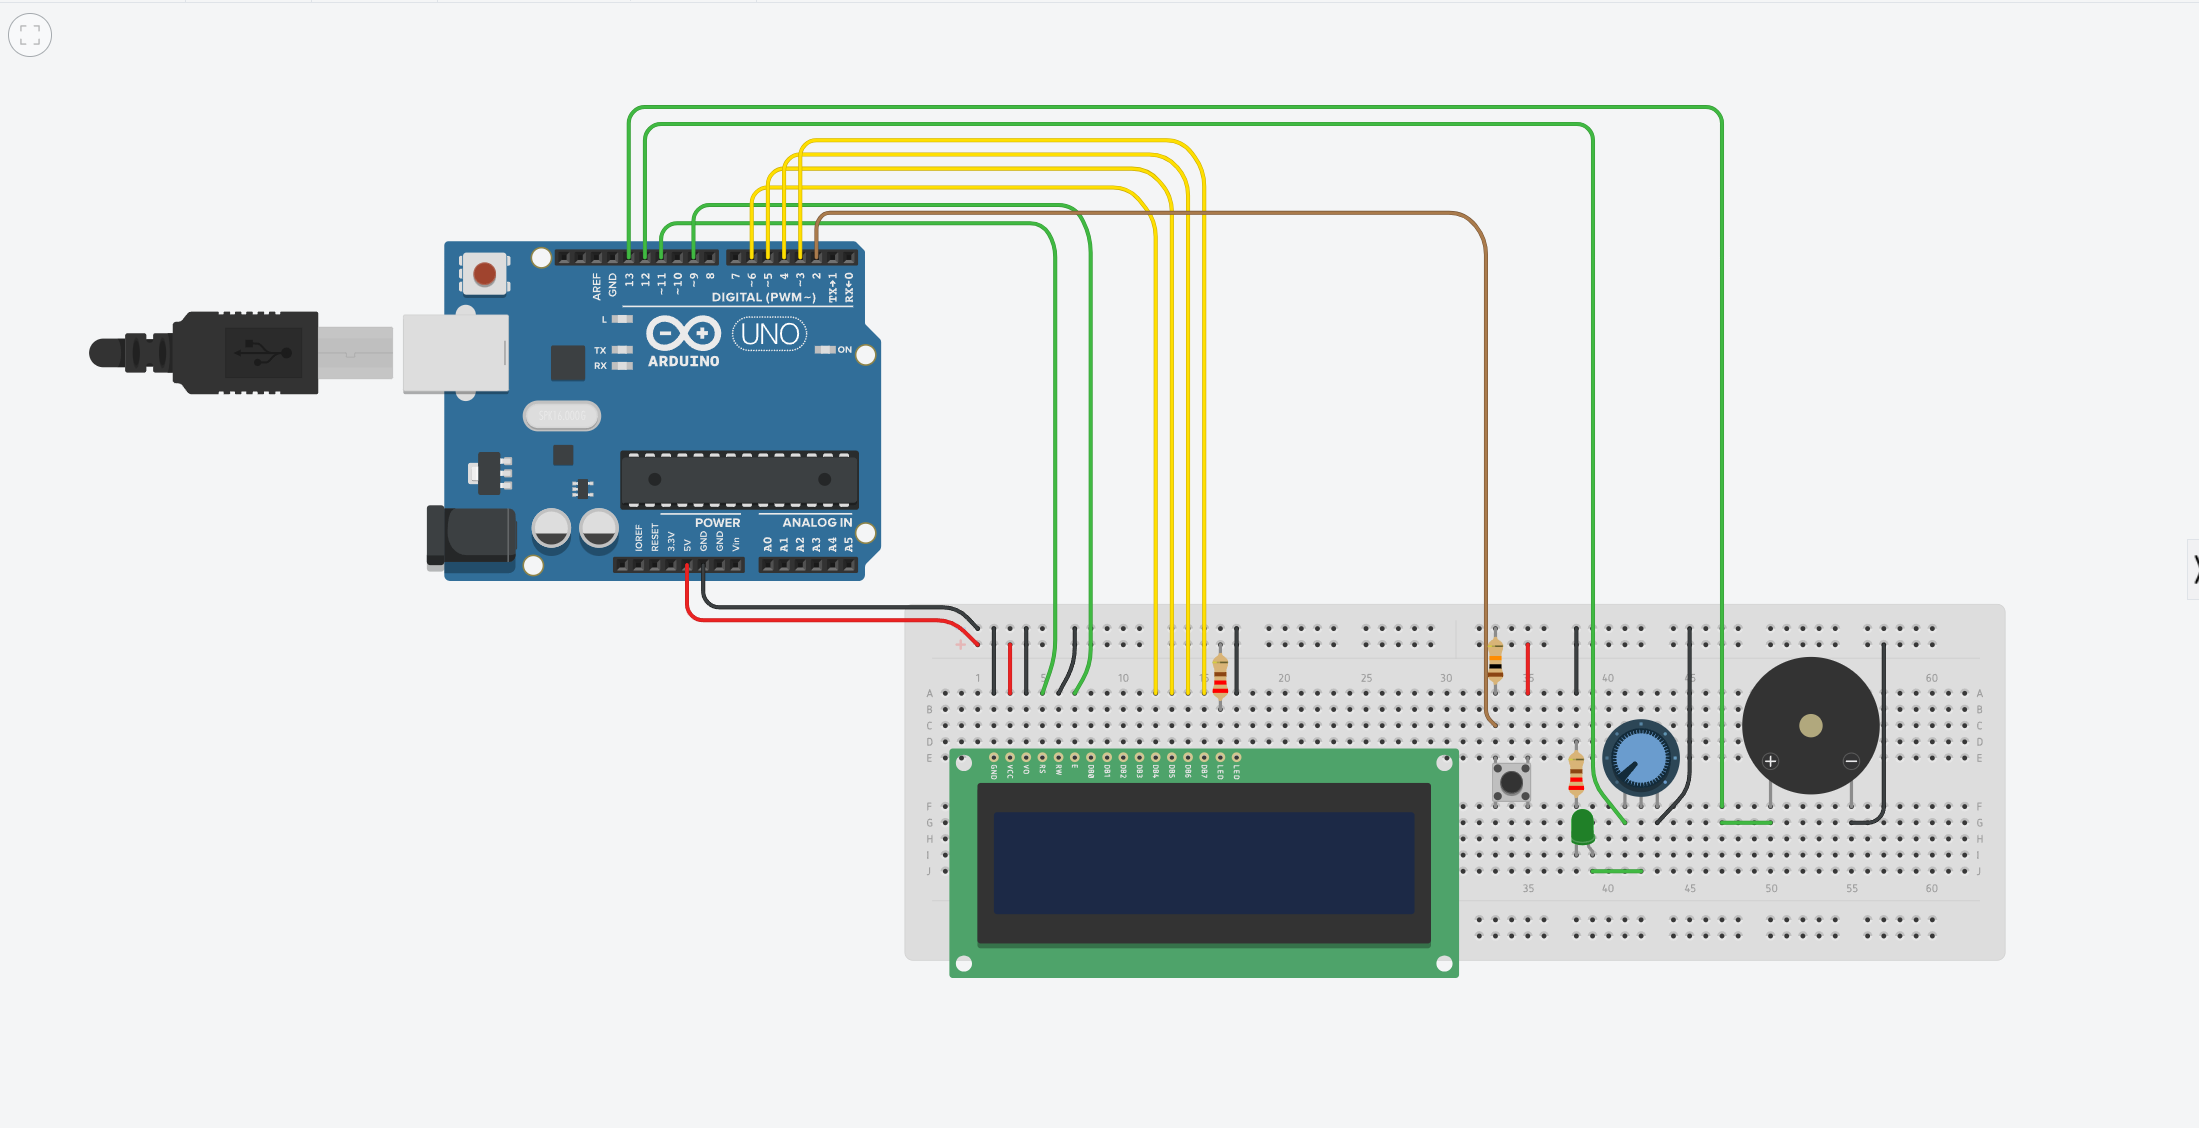
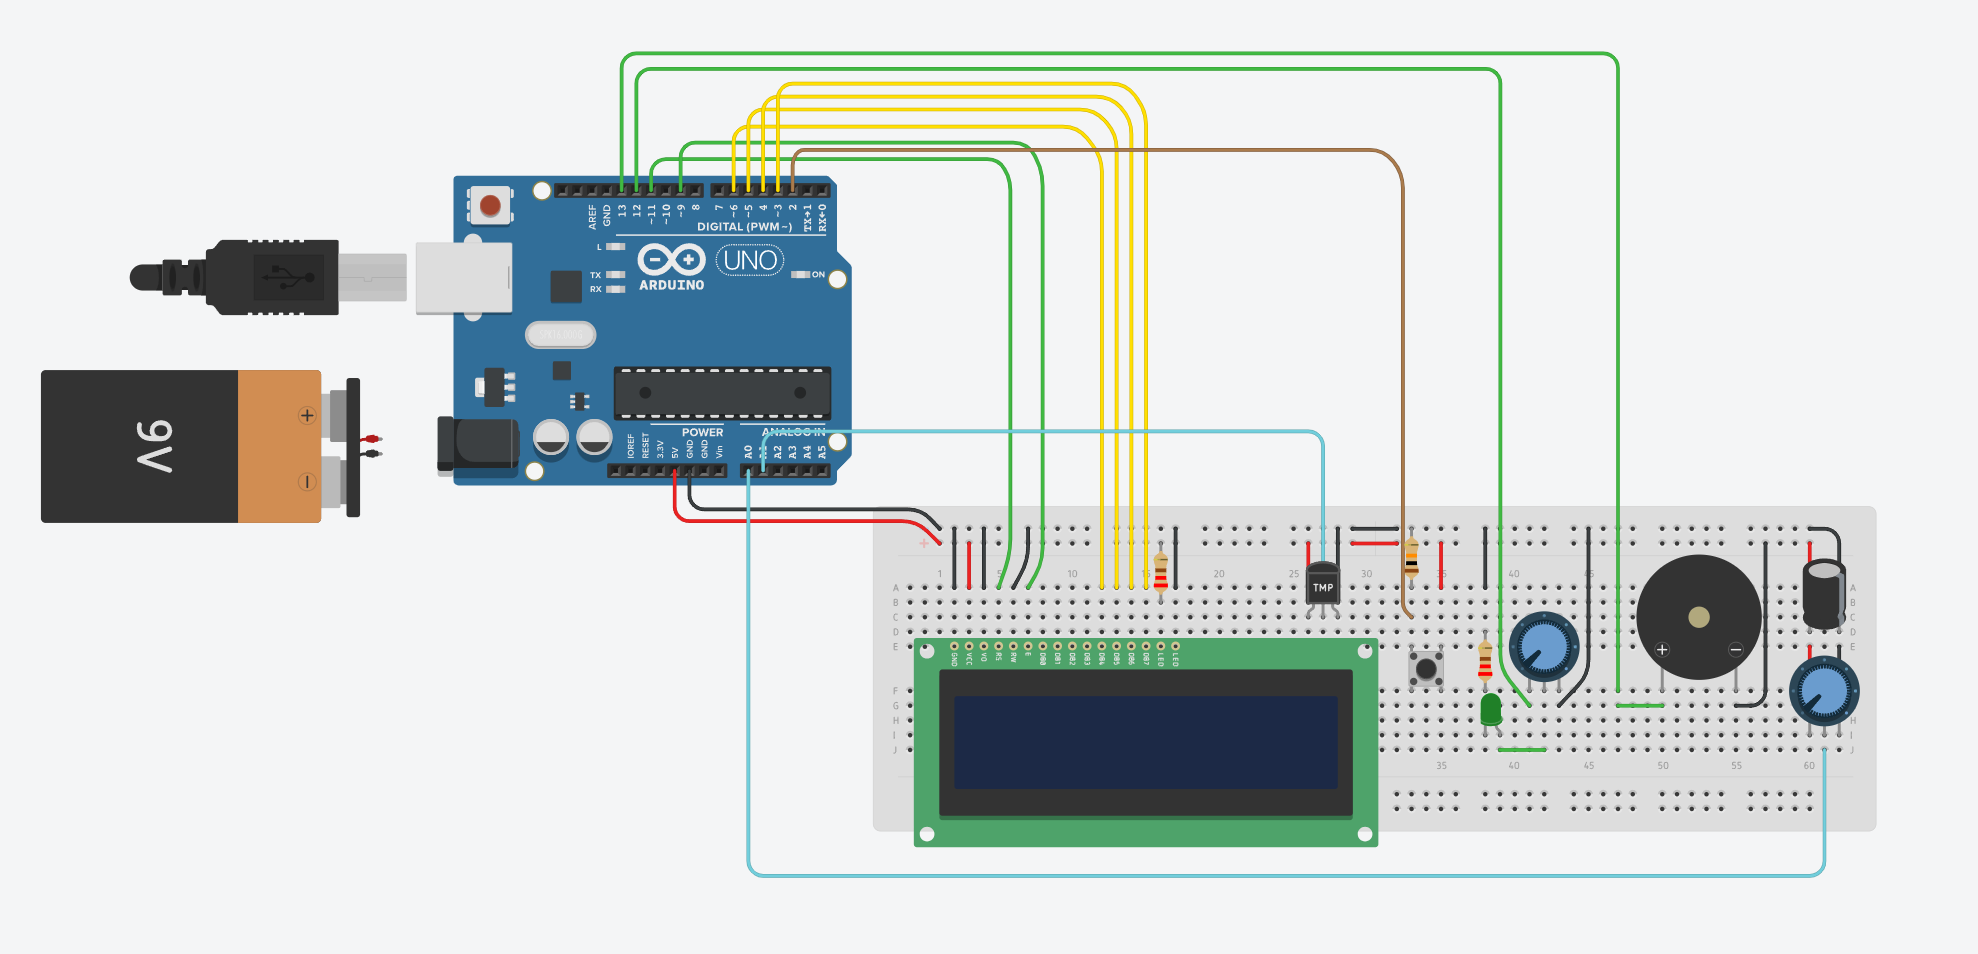
Temperature game finished

Changed region(s): [[0.0, 0.0304, 0.956, 0.9423]]

diff --git a/game_station/temperature_game.cpp b/game_station/temperature_game.cpp
@@ -1,0 +1,124 @@
+#include "game_station.h"
+#include "temperature_game.h"
+
+int readTemperature()
+{
+    // This function is used to read the temperature from the
+    // temperature sensor.
+    int sensorValue = analogRead(TEMPERATURE_PIN);
+    float voltage = sensorValue * (5.0 / 1023.0);
+    float temperature = (voltage - 0.5) * 100;
+    return temperature;
+}
+
+void temperatureIntroScreen()
+{
+    // This function is used to print the intro screen of the temperature game.
+
+    lcd.clear();
+    lcd.setCursor(0, 0);
+    lcd.print("Guess the");
+    lcd.setCursor(0, 1);
+    lcd.print("temperature!");
+    while (digitalRead(BUTTON_PIN) == LOW)
+        ;
+    while (digitalRead(BUTTON_PIN) == HIGH)
+        ;
+    lcd.clear();
+    lcd.setCursor(0, 0);
+    lcd.print("Use the knob");
+    lcd.setCursor(0, 1);
+    lcd.print("to guess.");
+    while (digitalRead(BUTTON_PIN) == LOW)
+        ;
+    while (digitalRead(BUTTON_PIN) == HIGH)
+        ;
+    lcd.clear();
+}
+
+int mapPotentiometerTemperature(int minIndex, int maxIndex)
+{
+    // This function is used to read the potentiometer value
+    // and map it to the number of cards.
+    int potentiometerValue = analogRead(A0);
+    int potentioMeterIndex = map(potentiometerValue, 0, 1022, minIndex, maxIndex);
+    return potentioMeterIndex;
+}
+
+void temperatureGameplay()
+{
+    // This function is used to run the gameplay of the temperature game.
+    temperatureIntroScreen();
+    while (digitalRead(BUTTON_PIN) == LOW)
+    {
+        lcd.clear();
+        lcd.setCursor(0, 0);
+        lcd.print("Your guess: ");
+        lcd.setCursor(3, 1);
+        lcd.print("=" + String(mapPotentiometerTemperature(0, 40)) + " celcius");
+        // This while loop is used to make sure that the screen
+        // is refreshed only when the potentiometer value has changed.
+        int compareIndex = mapPotentiometerTemperature(0, 40);
+        while (compareIndex == mapPotentiometerTemperature(0, 40) && digitalRead(BUTTON_PIN) == LOW)
+        {
+            compareIndex = mapPotentiometerTemperature(0, 40);
+        }
+        delay(50);
+    }
+    while (digitalRead(BUTTON_PIN) == HIGH)
+    {
+        // Wait for the player to release the button.
+    }
+    int temperature = readTemperature();
+    int playerGuess = mapPotentiometerTemperature(0, 40);
+    lcd.clear();
+    lcd.setCursor(0, 0);
+    lcd.print("The temperature");
+    lcd.setCursor(0, 1);
+    lcd.print("is " + String(temperature) + " celcius");
+    while (digitalRead(BUTTON_PIN) == LOW)
+    {
+        // Wait for the player to push the button.
+    }
+    while (digitalRead(BUTTON_PIN) == HIGH)
+    {
+        // Wait for the player to release the button.
+    }
+    lcd.clear();
+    lcd.setCursor(0, 0);
+    lcd.print("Your guess");
+    lcd.setCursor(0, 1);
+    lcd.print("was " + String(playerGuess) + " celcius");
+    while (digitalRead(BUTTON_PIN) == LOW)
+    {
+        // Wait for the player to push the button.
+    }
+    while (digitalRead(BUTTON_PIN) == HIGH)
+    {
+        // Wait for the player to release the button.
+    }
+    lcd.clear();
+    lcd.setCursor(0, 0);
+    if (temperature == playerGuess)
+    {
+        lcd.print("You were right!");
+        lcd.setCursor(0, 1);
+        lcd.print("You won!");
+    }
+    else
+    {
+
+        lcd.print("You were wrong");
+        lcd.setCursor(0, 1);
+        lcd.print("by " + String(abs(temperature - playerGuess)) + " celcius");
+    }
+    while (digitalRead(BUTTON_PIN) == LOW)
+    {
+        // Wait for the player to push the button.
+    }
+    while (digitalRead(BUTTON_PIN) == HIGH)
+    {
+        // Wait for the player to release the button.
+    }
+    lcd.clear();
+}

diff --git a/game_station/game_station.cpp b/game_station/game_station.cpp
@@ -3,6 +3,7 @@
 #include "stack_tower_game.h"
 #include "reaction_game.h"
 #include "memory_game.h"
+#include "temperature_game.h"
 #include <avr/sleep.h>
 #define NOTE_GS3 208
 #define NOTE_A3 220
@@ -19,7 +20,7 @@ const String availableGames[] = {
     "2.Stack Tower",
     "3.Space Asteroid",
     "4.Reaction Speed",
-};
+    "5.GuessTemp Game"};
 const int numberOfGames = sizeof(availableGames) / sizeof(availableGames[0]);
 int rehreshIndex = 0;
 int rehreshRate = 150;
@@ -146,6 +147,9 @@ void chooseGame()
     case 3:
         reactionGamePlay();
         break;
+    case 4:
+        temperatureGameplay();
+        break;
     }
 }
 
@@ -196,6 +200,6 @@ int mapPotentiometerValue(int index)
     // This function is used to read the potentiometer value
     // and map it to the number of cards.
     int potentiometerValue = analogRead(A0);
-    int potentioMeterIndex = map(potentiometerValue, 0, 1022, 0, index - 1);
+    int potentioMeterIndex = map(potentiometerValue, 0, 1000, 0, index - 1);
     return potentioMeterIndex;
 }

diff --git a/game_station/memory_game.cpp b/game_station/memory_game.cpp
@@ -303,7 +303,7 @@ void printAllCards(int numberOfCards, int potentioMeterIndex)
                 if (cards[i] == "Removed")
                 {
                     lcd.setCursor(indent + i, 0);
-                    lcd.print(" ");
+                    printSpecialChar(0, indent + i, cursorChar, 8);
                 }
                 else
                 {
@@ -330,7 +330,7 @@ void printAllCards(int numberOfCards, int potentioMeterIndex)
                 if (cards[i] == "Removed")
                 {
                     lcd.setCursor(indent + i - (numberOfCards / 2), 1);
-                    lcd.print(" ");
+                    printSpecialChar(1, indent + i - (numberOfCards / 2), cursorChar, 8);
                 }
                 else
                 {

diff --git a/game_station/temperature_game.h b/game_station/temperature_game.h
@@ -1,0 +1,10 @@
+#ifndef TEMPERATURE_GAME_H
+#define TEMPERATURE_GAME_H
+#include <Arduino.h>
+#include <LiquidCrystal.h>
+
+int readTemperature();
+void temperatureIntroScreen();
+int mapPotentiometerTemperature(float minIndex, float maxIndex);
+void temperatureGameplay();
+#endif

diff --git a/game_station/memory_game.h b/game_station/memory_game.h
@@ -26,6 +26,16 @@ const byte selectedCardChar[] = {
 	B01110,
 	B00000};
 
+const byte cursorChar[] = {
+	B00000,
+	B00000,
+	B00000,
+	B00100,
+	B00000,
+	B00000,
+	B00000,
+	B00000};
+
 void memoryGameInterruptHandler();
 void memoryGameplay();
 void memoryGameIntroScreen();

diff --git a/game_station/game_station.h b/game_station/game_station.h
@@ -10,6 +10,7 @@
 #define MELODY_PIN 13
 #define INTERRUPT_PIN 2
 #define POTENTIOMETER_PIN A0
+#define TEMPERATURE_PIN A1
 #include <Arduino.h>
 #include <LiquidCrystal.h>
 
